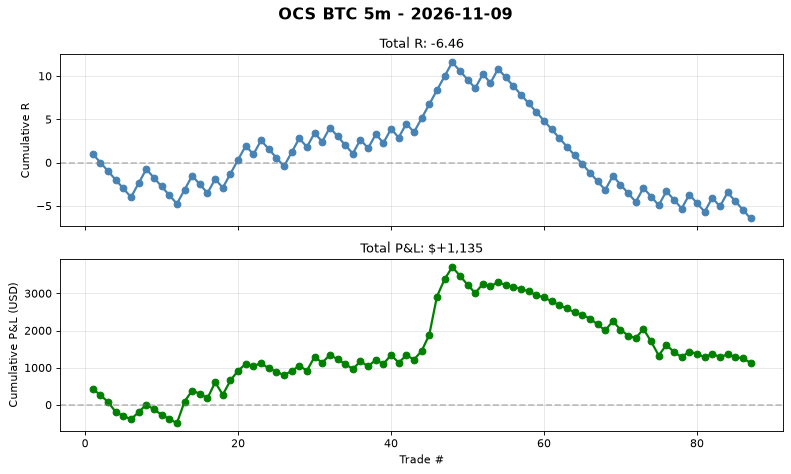
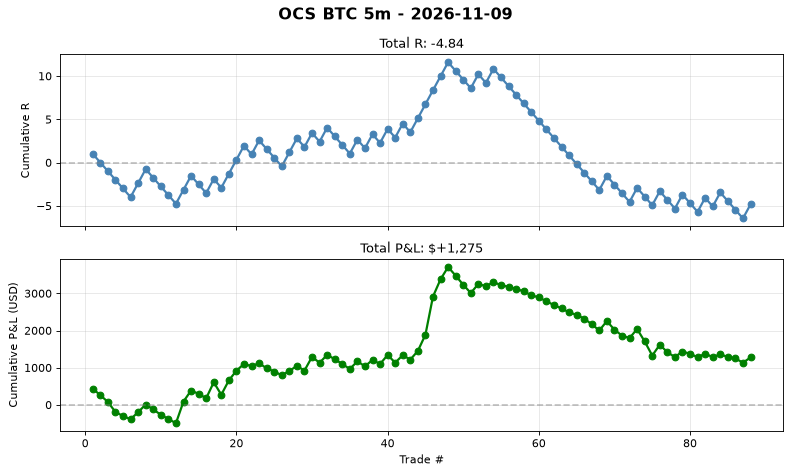
auto(ocs-btc): signal log 2026-11-09T00:54 trades=88

diff --git a/automation/reports/ocs_btc_5m/daily/2026-11-09.md b/automation/reports/ocs_btc_5m/daily/2026-11-09.md
@@ -1,5 +1,37 @@
 # OCS BTC 5m - 2026-11-09
 
-**No trades today.**
+## Summary
+- **Trades**: 1 (1W / 0L)
+- **Win Rate**: 100.0%
+- **Total R**: +1.62R
+- **Total P&L**: $+140
+- **Avg R**: +1.62R
+- **Profit Factor**: 0.91
 
-Cumulative stats: 87 trades | WR 35.6% | avg R -0.074
+## Exit Breakdown
+- T1 (+1.0R): 1
+- T2 (+1.618R): 31
+- T3 (+2.618R): 0
+- T4 (+3.618R): 0
+- T5 (+5.0R): 0
+- SL (-1.0R): 56
+
+## Best Trade
+- **SHORT** at 75,635 -> T2 75,495
+- R = +1.62, P&L = $+140
+- Held for 5 bars
+
+## Worst Trade
+- **SHORT** at 75,635 -> T2 75,495
+- R = +1.62, P&L = $+140
+- Held for 5 bars
+
+## Cumulative Stats (Lifetime)
+- Total trades: 88
+- WR: 36.4%
+- Avg R: -0.055
+- Total R: -4.84R
+- Profit Factor: 0.91
+
+## Chart
+See `daily/2026-11-09.png` for cumulative P&L curve.
